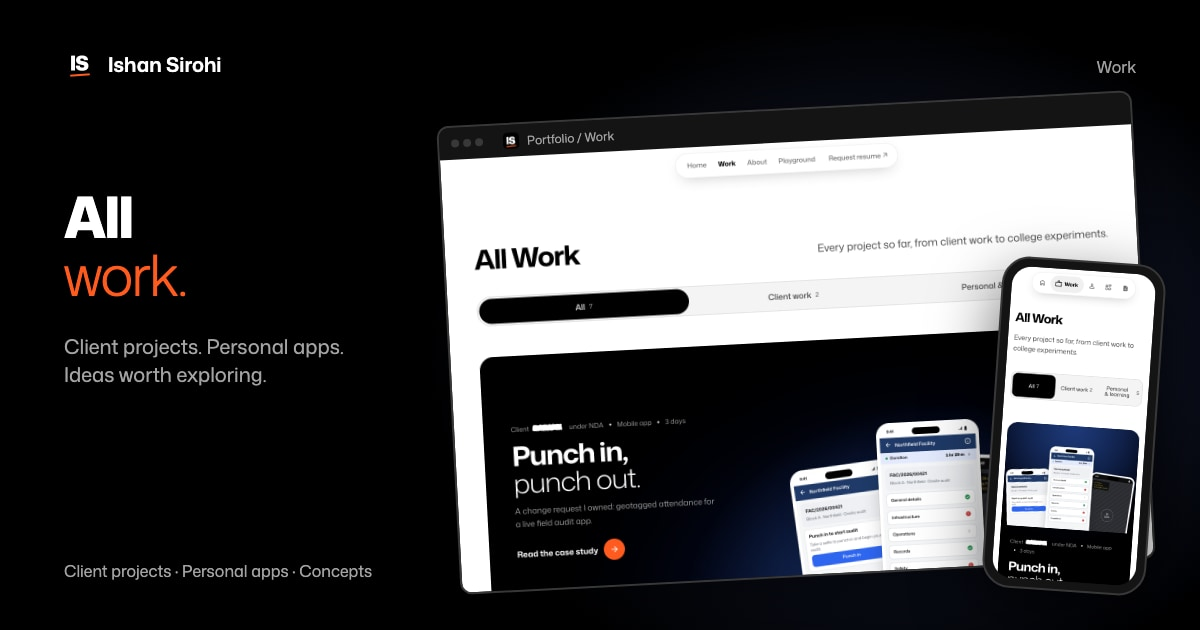
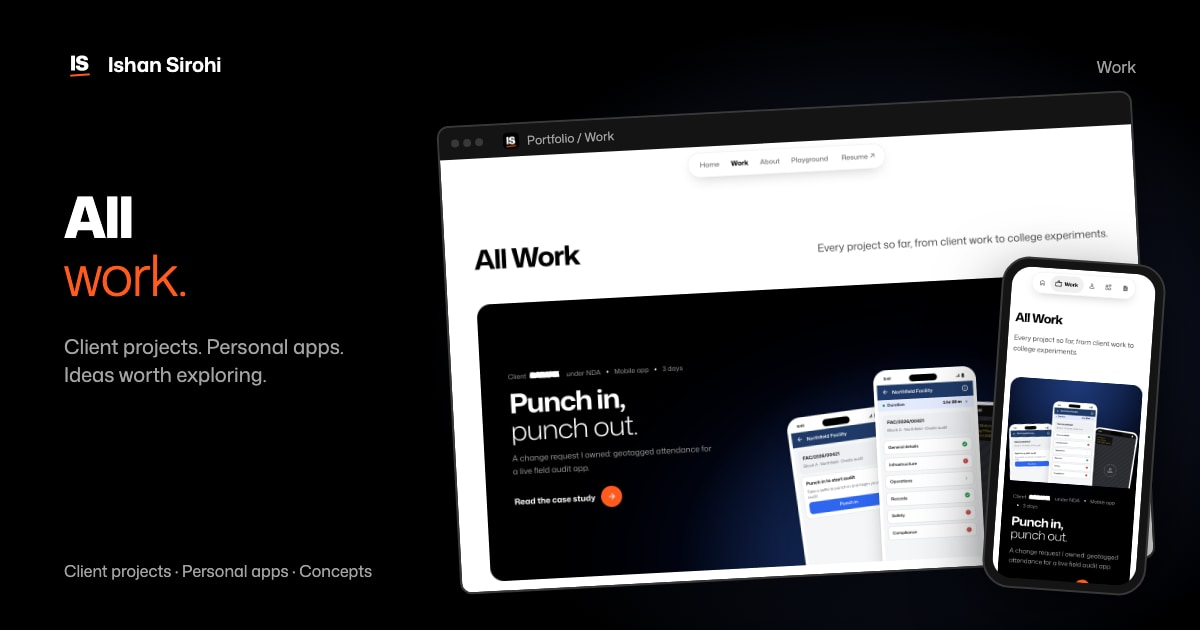
Remove Work tabs and show all projects together

Changed region(s): [[0.4008, 0.573, 0.9558, 0.9349], [0.4008, 0.4222, 0.8325, 0.8444], [0.5858, 0.2413, 0.74, 0.2714]]

diff --git a/work.html b/work.html
@@ -69,18 +69,11 @@
           <h1 class="page-head__title">All Work</h1>
           <p class="lead">Every project so far, from client work to college experiments.</p>
         </div>
-        <div class="wfilter" role="group" aria-label="Show projects" data-wfilter hidden>
-          <span class="wfilter__ind" aria-hidden="true"></span>
-          <button type="button" aria-pressed="true" data-f="all"><span class="wfilter__label">All</span><small></small></button>
-          <button type="button" aria-pressed="false" data-f="client"><span class="wfilter__label">Client work</span><small></small></button>
-          <button type="button" aria-pressed="false" data-f="personal"><span class="wfilter__label">Personal &amp; learning</span><small></small></button>
-        </div>
-        <p class="sr-only" aria-live="polite" data-wfilter-live></p>
       </div>
     </section>
     <section class="section section--flush-top">
-      <div class="wrap wlist" data-wlist>
-        <a class="wcard wcard--attendance reveal" data-kind="client" href="case-attendance.html">
+      <div class="wrap wlist">
+        <a class="wcard wcard--attendance reveal" href="case-attendance.html">
           <div class="wcard__text">
             <p class="wcard__client"><span>Client <span class="redact" style="--w:4.4em"></span> under NDA</span><span>Mobile app</span><span>3 days</span></p>
             <h3 class="wcard__title">Punch in, <span class="serif">punch out.</span></h3>
@@ -95,7 +88,7 @@
             </div>
           </div>
         </a>
-        <a class="wcard wcard--neighbourhood reveal" data-kind="client" href="case-neighbourhood.html">
+        <a class="wcard wcard--neighbourhood reveal" href="case-neighbourhood.html">
           <div class="wcard__text">
             <p class="wcard__client"><span>Client <span class="redact" style="--w:4.4em"></span> under NDA</span><span>App and website</span><span>6 weeks</span></p>
             <h3 class="wcard__title">Everything nearby, <span class="serif">one tap away.</span></h3>
@@ -110,7 +103,7 @@
             </div>
           </div>
         </a>
-        <a class="wcard wcard--thero reveal" data-kind="personal" href="case-thero.html">
+        <a class="wcard wcard--thero reveal" href="case-thero.html">
           <div class="wcard__text">
             <p class="wcard__client"><span><img class="wcard__icon" src="assets/img/thero/logo-final.svg" alt="">Thero</span><span>Personal project</span><span>iOS app</span></p>
             <h3 class="wcard__title">One list, <span class="serif">one clear order.</span></h3>
@@ -125,7 +118,7 @@
             </div>
           </div>
         </a>
-        <a class="wcard wcard--rider reveal" data-kind="personal" href="case-rider.html">
+        <a class="wcard wcard--rider reveal" href="case-rider.html">
           <div class="wcard__text">
             <p class="wcard__client"><span>Personal concept</span><span>Mobile app</span><span>Jan 2026</span></p>
             <h3 class="wcard__title">Designing trust <span class="serif">after the ride.</span></h3>
@@ -140,7 +133,7 @@
             </div>
           </div>
         </a>
-        <a class="wcard wcard--medicine reveal" data-kind="personal" href="case-medicine.html">
+        <a class="wcard wcard--medicine reveal" href="case-medicine.html">
           <div class="wcard__text">
             <p class="wcard__client"><span>IIT Delhi capstone</span><span>Mobile app</span><span>1 month</span></p>
             <h3 class="wcard__title">Reminders, <span class="serif">prefilled.</span></h3>
@@ -155,7 +148,7 @@
             </div>
           </div>
         </a>
-        <a class="wcard wcard--cyberchic wcard--site reveal" data-kind="personal" href="https://www.behance.net/gallery/215068059/Cyberchic-UI" target="_blank" rel="noopener">
+        <a class="wcard wcard--cyberchic wcard--site reveal" href="https://www.behance.net/gallery/215068059/Cyberchic-UI" target="_blank" rel="noopener">
           <div class="wcard__text">
             <p class="wcard__client"><span>Cyberchic</span><span>College project</span><span>Website</span></p>
             <h3 class="wcard__title">Techwear, <span class="serif">after dark.</span></h3>
@@ -169,7 +162,7 @@
             </div>
           </div>
         </a>
-        <a class="wcard wcard--brightwave wcard--site reveal" data-kind="personal" href="https://www.behance.net/gallery/205503337/BrightWave-Digital-Website-Design" target="_blank" rel="noopener">
+        <a class="wcard wcard--brightwave wcard--site reveal" href="https://www.behance.net/gallery/205503337/BrightWave-Digital-Website-Design" target="_blank" rel="noopener">
           <div class="wcard__text">
             <p class="wcard__client"><span>Brightwave</span><span>College project</span><span>Website</span></p>
             <h3 class="wcard__title">An agency, <span class="serif">on one page.</span></h3>
@@ -218,59 +211,5 @@
   <script src="js/screens-local.js"></script>
   <script src="js/screens-rider.js"></script>
   <script src="js/screens-medicine.js"></script>
-  <script>(function() {
-    const bar = document.querySelector("[data-wfilter]");
-    const live = document.querySelector("[data-wfilter-live]");
-    const cards = [ ...document.querySelectorAll("[data-wlist] .wcard") ];
-    const btns = [ ...bar.querySelectorAll("button") ];
-    bar.style.setProperty("--work-tab-count", btns.length);
-    const still = matchMedia("(prefers-reduced-motion: reduce)").matches;
-    const match = (c, f) => f === "all" || c.dataset.kind === f;
-    btns.forEach(b => {
-        b.querySelector("small").textContent = cards.filter(c => match(c, b.dataset.f)).length;
-    });
-    const apply = (f, byUser) => {
-        const legacy = f === "learning";
-        if (legacy) f = "personal";
-        if (!btns.some(b => b.dataset.f === f)) f = "all";
-        btns.forEach((b, k) => {
-            b.setAttribute("aria-pressed", b.dataset.f === f);
-            if (b.dataset.f === f) {
-                bar.style.setProperty("--k", k);
-            }
-        });
-        let n = 0;
-        cards.forEach(c => {
-            const on = match(c, f);
-            c.hidden = !on;
-            if (on && byUser) {
-                c.classList.add("is-in");
-                if (!still) c.animate([ {
-                    opacity: 0,
-                    transform: "translateY(16px)"
-                }, {
-                    opacity: 1,
-                    transform: "none"
-                } ], {
-                    duration: 420,
-                    delay: n * 70,
-                    easing: "cubic-bezier(.2,.8,.2,1)",
-                    fill: "backwards"
-                });
-            }
-            if (on) n++;
-        });
-        live.textContent = n === 1 ? "Showing 1 project" : "Showing " + n + " projects";
-        if (byUser || legacy) history.replaceState(null, "", f === "all" ? location.pathname + location.search : "#" + f);
-    };
-    bar.hidden = false;
-    requestAnimationFrame(() => bar.classList.add("is-ready"));
-    bar.addEventListener("click", e => {
-        const b = e.target.closest("button");
-        if (b) apply(b.dataset.f, true);
-    });
-    addEventListener("hashchange", () => apply(location.hash.slice(1) || "all", false));
-    apply(location.hash.slice(1) || "all", false);
-})();</script>
 </body>
 </html>

diff --git a/css/site.css b/css/site.css
@@ -14004,87 +14004,12 @@ a.ab-tile:hover .ab-tile__go .ms {
     margin-inline: calc(50% - 190px)
   }
 }
-.wfilter {
-  display: flex;
-  gap: 4px;
-  width: max-content;
-  max-width: 100%;
-  margin-top: var(--s-6);
-  padding: 4px;
-  border-radius: var(--r-pill);
-  background: var(--paper-2);
-  border: 1px solid var(--line);
-  overflow-x: auto;
-  scrollbar-width: none
-}
-.wfilter[hidden] {
-  display: none
-}
-.wfilter::-webkit-scrollbar {
-  display: none
-}
-.wfilter button {
-  flex: none;
-  display: inline-flex;
-  white-space: nowrap;
-  align-items: center;
-  gap: var(--s-2);
-  min-height: 40px;
-  padding: 0 var(--s-4);
-  border: 0;
-  border-radius: var(--r-pill);
-  background: transparent;
-  color: var(--ink-2);
-  font: inherit;
-  font-size: var(--fs-small);
-  font-weight: var(--fw-medium);
-  cursor: pointer;
-  transition: background var(--t-fast),color var(--t-fast)
-}
-.wfilter button:hover {
-  color: var(--ink);
-  background: var(--paper-3)
-}
-.wfilter button small {
-  font-size: var(--fs-label);
-  font-weight: var(--fw-medium);
-  color: var(--ink-3);
-  font-variant-numeric: tabular-nums
-}
-.wfilter button[aria-pressed="true"] {
-  background: var(--ink);
-  color: var(--paper)
-}
-.wfilter button[aria-pressed="true"] small {
-  color: #a3a3a3
-}
-.wfilter button:focus-visible {
-  outline: 2px solid var(--signal);
-  outline-offset: 2px
-}
 .wlist {
   display: grid;
   gap: var(--grid-gap)
 }
 .wlist .wcard + .wcard {
   margin-top: 0
-}
-.wlist .wcard[hidden] {
-  display: none
-}
-@media (max-width: 600px) {
-  .wfilter {
-    display: grid;
-    grid-template-columns: repeat(2, minmax(0, 1fr));
-    width: 100%;
-    border-radius: var(--r-md)
-  }
-  .wfilter button {
-    justify-content: center;
-    gap: 6px;
-    padding: 0 var(--s-2);
-    border-radius: calc(var(--r-md) - 4px)
-  }
 }
 .page-head .lead {
   text-wrap: pretty
@@ -14278,76 +14203,6 @@ a.ab-tile:hover .ab-tile__go .ms {
 }
 .page-head__row .lead {
   margin-top: 0
-}
-.wfilter {
-  position: relative;
-  isolation: isolate;
-  display: grid;
-  grid-template-columns: repeat(var(--work-tab-count), minmax(0, 1fr));
-  gap: 0;
-  width: 100%;
-  max-width: none;
-  margin-top: var(--s-7);
-  padding: var(--s-1);
-  border-radius: var(--r-pill);
-  overflow: hidden
-}
-.wfilter button {
-  justify-content: center;
-  min-height: calc(var(--s-7) + var(--s-1));
-  padding: 0 var(--s-3);
-  font-size: var(--fs-body);
-  background: transparent!important;
-  transition: color var(--t-fast)
-}
-.wfilter__label {
-  min-width: 0;
-  white-space: normal;
-  line-height: var(--lh-heading);
-  text-wrap: balance
-}
-.wfilter button small {
-  flex: none
-}
-.wfilter button:hover {
-  color: var(--ink)
-}
-.wfilter button[aria-pressed="true"] {
-  color: var(--paper)
-}
-.wfilter__ind {
-  position: absolute;
-  z-index: -1;
-  top: var(--s-1);
-  left: var(--s-1);
-  width: calc((100% - 2 * var(--s-1)) / var(--work-tab-count));
-  height: calc(100% - 2 * var(--s-1));
-  border-radius: var(--r-pill);
-  background: var(--ink);
-  transform: translateX(calc(var(--k, 0) * 100%))
-}
-.wfilter.is-ready .wfilter__ind {
-  transition: transform .45s var(--ease-out)
-}
-@media (max-width: 600px) {
-  .wfilter {
-    border-radius: var(--r-md)
-  }
-  .wfilter button {
-    min-height: var(--work-tab-mobile-height);
-    padding: 0 var(--s-1);
-    gap: var(--s-1);
-    font-size: var(--fs-small);
-    border-radius: calc(var(--r-md) - var(--s-1))
-  }
-  .wfilter__ind {
-    border-radius: calc(var(--r-md) - var(--s-1))
-  }
-}
-@media (prefers-reduced-motion: reduce) {
-  .wfilter.is-ready .wfilter__ind {
-    transition: none
-  }
 }
 .about-intro__body {
   font-size: var(--fs-lead);

diff --git a/css/tokens.css b/css/tokens.css
@@ -90,8 +90,6 @@
   --xp-mobile-inset: var(--pin-top);
   --xp-mobile-gap: var(--s-7);
   --work-sticky-clearance: calc(var(--pin-top) + var(--fs-h2) * var(--lh-heading) + var(--s-7));
-  --work-tab-count: 3;
-  --work-tab-mobile-height: var(--s-8);
   --r-xs: 4px;
   --r-sm: 10px;
   --r-md: 18px;
